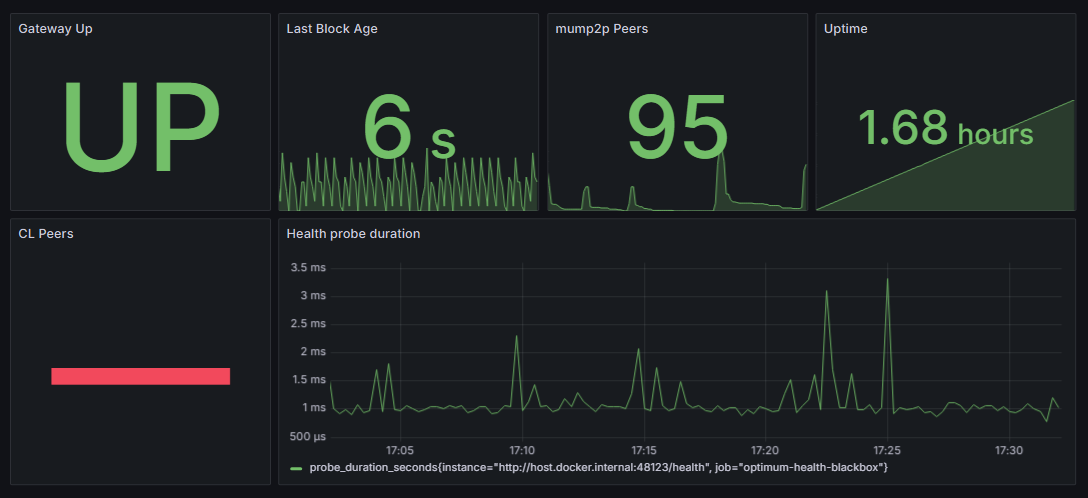
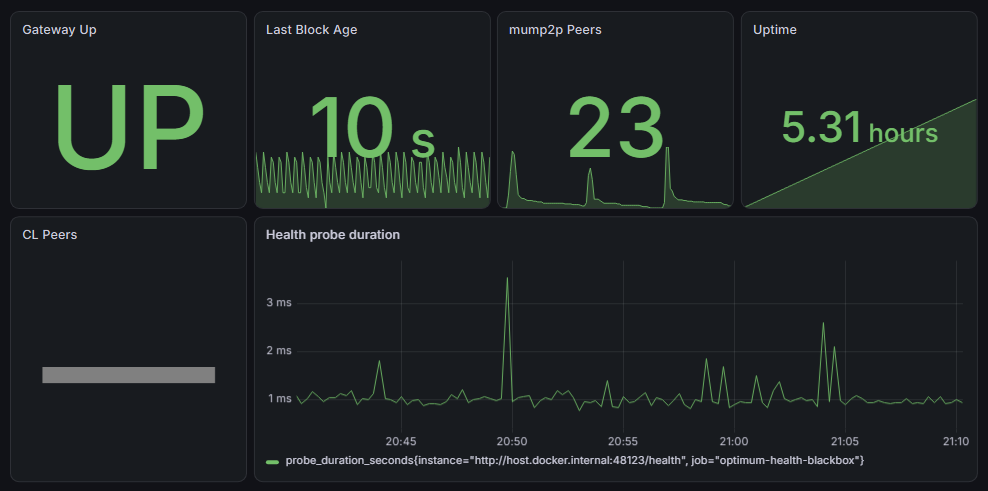
chore: bump pinned images to supported releases; correct SECURITY.md
Prometheus v2.53.0 (EOL 2025-07) -> v3.13.3 LTS; Grafana 11.1.0 -> 13.3.1;
blackbox 0.25 -> 0.29.1; json_exporter 0.6 -> 0.8.0; checkout v4 -> v7
(Node 24). SECURITY.md: remove nonexistent Dockerfile claim, fix metric
name, state actual pinning. Dashboard: gray no-data states instead of
alarm-colored dashes; screenshot refreshed to match.

diff --git a/SECURITY.md b/SECURITY.md
@@ -12,16 +12,16 @@ Please report privately via GitHub: Security tab -> "Report a vulnerability"
 public issues for security reports. We aim to acknowledge within 7 days.
 
 ## Supported versions
-This is a small prototype. Only the latest `main` is supported; pin a specific
+Only the latest `main` is supported; pin a specific
 commit (or image digest) for any real deployment and review the code yourself.
 
 ## Deployment guidance (the real risks)
 - The gateway telemetry port is UNAUTHENTICATED. Keep it bound to 127.0.0.1
   (`telemetry_addr`) and never expose it publicly.
 - Bind exporter metrics to loopback or your monitoring VLAN, not 0.0.0.0.
-- Run the container as non-root (the Dockerfile does) and pin base-image digests.
+- Images are upstream stock, pinned by tag in compose. For fleet rollouts, verify digests and canary on one host.
 - Do NOT run the demo compose (admin/admin Grafana) on a validator host.
-- Alert on `optimum_gateway_up` / `probe_success`, not on a stale health gauge.
+- Alert on `probe_success` / `probe_http_status_code` (down vs degraded), not on a stale health gauge.
 
 ## Out of scope
 Vulnerabilities in the Optimum Gateway itself belong to Optimum, not this repo.
